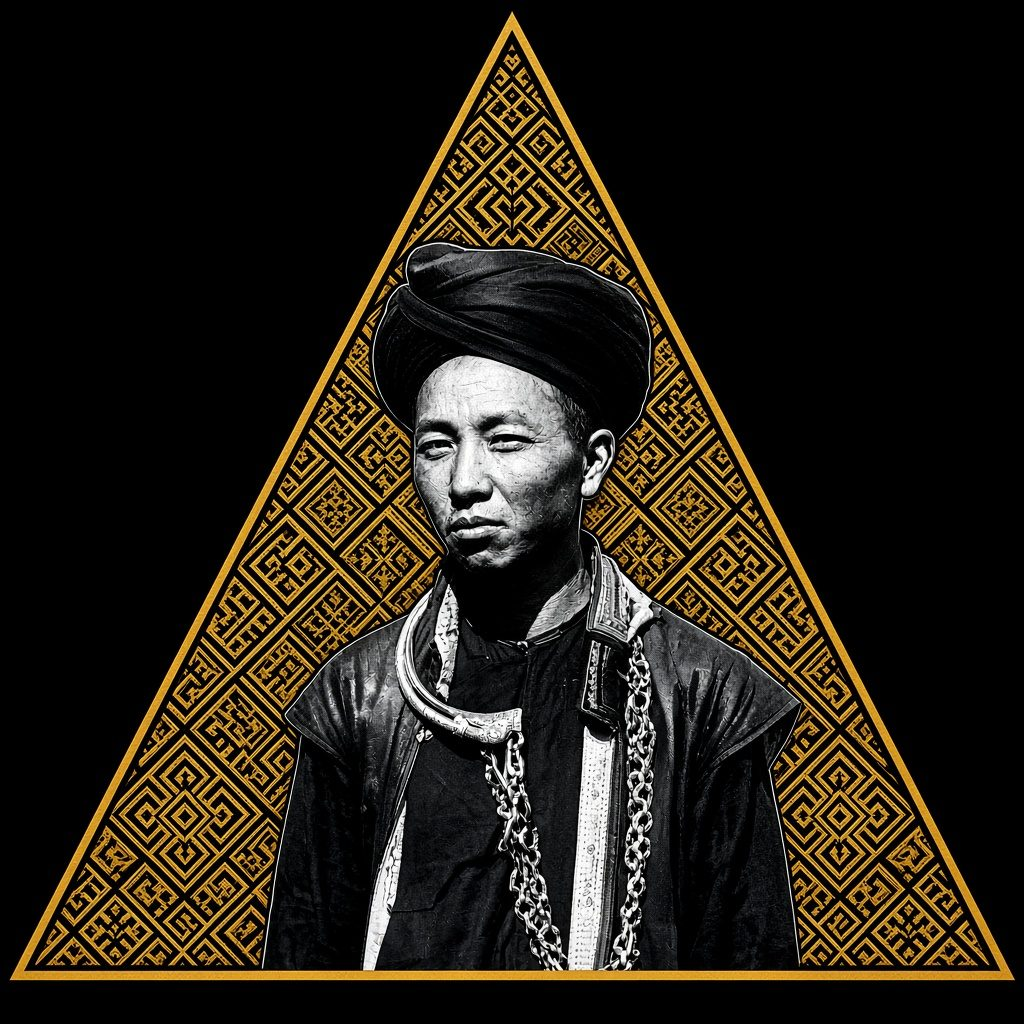
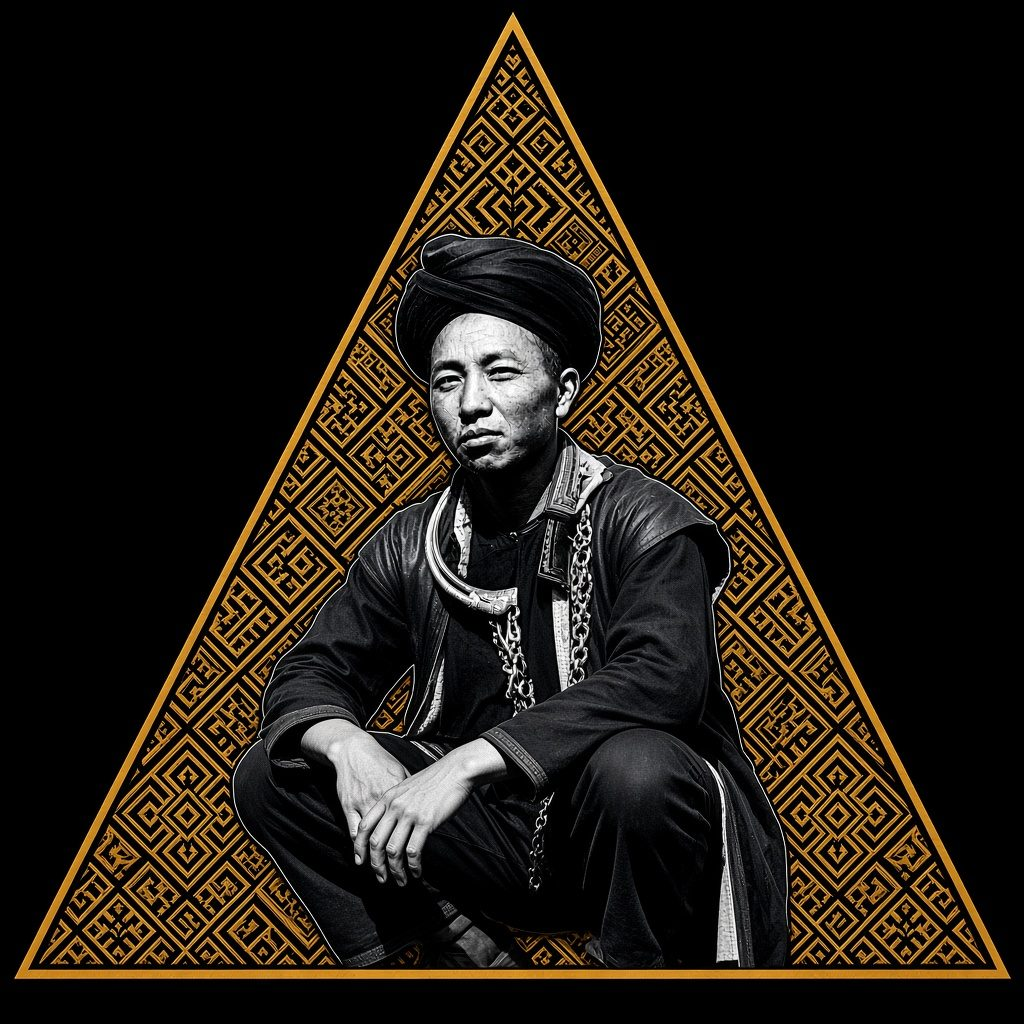
Replace the Paj Cai Tee art with the crouched portrait.
Swap the mockup and flat art for the crouched design and drop the chest-up alt text.

Changed region(s): [[0.0, 0.0312, 1.0, 0.9688]]

diff --git a/index.html b/index.html
@@ -365,7 +365,7 @@
             <span class="tag soon">Coming soon</span>
             <h3>Paj Cai Tee</h3>
             <p>Black tee with a high-contrast portrait of a Hmong man — turban, silver neck ring, and chain — set in a triangle of gold paj ntaub.</p>
-            <img src="img/paj-cai-tee-art.jpg" alt="Flat artwork for the Paj Cai Tee: chest-up portrait inside a gold paj ntaub triangle" width="1024" height="1024" loading="lazy" style="border-radius:10px;margin-top:4px;aspect-ratio:1;object-fit:cover;height:auto" />
+            <img src="img/paj-cai-tee-art.jpg" alt="Flat artwork for the Paj Cai Tee: a Hmong man crouched down, posing toward the camera, inside a gold paj ntaub triangle" width="1024" height="1024" loading="lazy" style="border-radius:10px;margin-top:4px;aspect-ratio:1;object-fit:cover;height:auto" />
             <form class="notify" onsubmit="return hiNotify(this)">
               <input type="email" required placeholder="Notify me" autocomplete="email" />
               <button type="submit">Notify</button>
